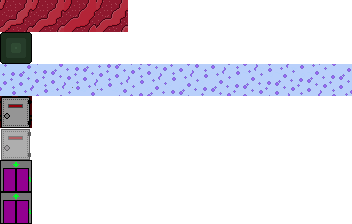
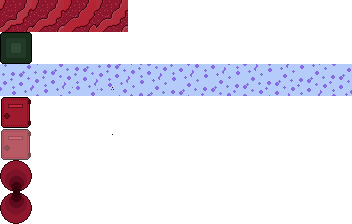
More tile consistency. Doors need reworked.

Changed region(s): [[0.0, 0.4062, 0.0938, 1.0]]

diff --git a/lib/mid/lvl.c b/lib/mid/lvl.c
@@ -56,7 +56,7 @@ static Tinfo tiles[] = {
 	['>'] = {
 		.ok = true,
 		.anims = {
-			[0] = { .row = 0, .len = 1, .delay = 1, .w = 32, .h = 32, .d = 1 },
+			[0] = { .row = 0, .len = 4, .delay = 400/Ticktm, .w = 32, .h = 32, .d = 400/Ticktm },
 			[1] = { .row = 3, .len = 1, .delay = 1, .w = 32, .h = 32, .d = 1 },
 		},
 		.flags = Tilebdoor
@@ -64,7 +64,7 @@ static Tinfo tiles[] = {
 	[')'] = {
 		.ok = true,
 		.anims = {
-			[0] = { .row = 0, .len = 1, .delay = 1, .w = 32, .h = 32, .d = 1 },
+			[0] = { .row = 0, .len = 4, .delay = 400/Ticktm, .w = 32, .h = 32, .d = 400/Ticktm },
 			[1] = { .row = 3, .len = 1, .delay = 1, .w = 32, .h = 32, .d = 1 },
 			[2] = { .row = 2, .len = 11, .delay = 300/Ticktm, .w = 32, .h = 32, .d = 300/Ticktm },
 		},
@@ -73,7 +73,7 @@ static Tinfo tiles[] = {
 	['<'] = {
 		.ok = true,
 		.anims = {
-			[0] = { .row = 0, .len = 1, .delay = 1, .w = 32, .h = 32, .d = 1 },
+			[0] = { .row = 0, .len = 4, .delay = 400/Ticktm, .w = 32, .h = 32, .d = 400/Ticktm },
 			[3] = { .row = 4, .len = 1, .delay = 1, .w = 32, .h = 32, .d = 1 },
 		},
 		.flags = Tilefdoor
@@ -81,7 +81,7 @@ static Tinfo tiles[] = {
 	['('] = {
 		.ok = true,
 		.anims = {
-			[0] = { .row = 0, .len = 1, .delay = 1, .w = 32, .h = 32, .d = 1 },
+			[0] = { .row = 0, .len = 4, .delay = 400/Ticktm, .w = 32, .h = 32, .d = 400/Ticktm },
 			[2] = { .row = 4, .len = 1, .delay = 1, .w = 32, .h = 32, .d = 1 },
 			[3] = { .row = 2, .len = 11, .delay = 300/Ticktm, .w = 32, .h = 32, .d = 300/Ticktm },
 		},
@@ -90,7 +90,7 @@ static Tinfo tiles[] = {
 	['d'] = {
 		.ok = true,
 		.anims = {
-			[0] = { .row = 0, .len = 1, .delay = 1, .w = 32, .h = 32, .d = 1 },
+			[0] = { .row = 0, .len = 4, .delay = 400/Ticktm, .w = 32, .h = 32, .d = 400/Ticktm },
 			[1] = { .row = 5, .len = 1, .delay = 1, .w = 32, .h = 32, .d = 1 },
 		},
 		.flags = Tiledown
@@ -98,7 +98,7 @@ static Tinfo tiles[] = {
 	['D'] = {
 		.ok = true,
 		.anims = {
-			[0] = { .row = 0, .len = 1, .delay = 1, .w = 32, .h = 32, .d = 1 },
+			[0] = { .row = 0, .len = 4, .delay = 400/Ticktm, .w = 32, .h = 32, .d = 400/Ticktm },
 			[1] = { .row = 5, .len = 1, .delay = 1, .w = 32, .h = 32, .d = 1 },
 			[3] = { .row = 2, .len = 11, .delay = 300/Ticktm, .w = 32, .h = 32, .d = 300/Ticktm },
 		},
@@ -107,7 +107,7 @@ static Tinfo tiles[] = {
 	['u'] = {
 		.ok = true,
 		.anims = {
-			[0] = { .row = 0, .len = 1, .delay = 1, .w = 32, .h = 32, .d = 1 },
+			[0] = { .row = 0, .len = 4, .delay = 400/Ticktm, .w = 32, .h = 32, .d = 400/Ticktm },
 			[1] = { .row = 6, .len = 1, .delay = 1, .w = 32, .h = 32, .d = 1 },
 		},
 		.flags = Tileup
@@ -115,7 +115,7 @@ static Tinfo tiles[] = {
 	['U'] = {
 		.ok = true,
 		.anims = {
-			[0] = { .row = 0, .len = 1, .delay = 1, .w = 32, .h = 32, .d = 1 },
+			[0] = { .row = 0, .len = 4, .delay = 400/Ticktm, .w = 32, .h = 32, .d = 400/Ticktm },
 			[1] = { .row = 6, .len = 1, .delay = 1, .w = 32, .h = 32, .d = 1 },
 			[3] = { .row = 2, .len = 11, .delay = 300/Ticktm, .w = 32, .h = 32, .d = 300/Ticktm },
 		},
